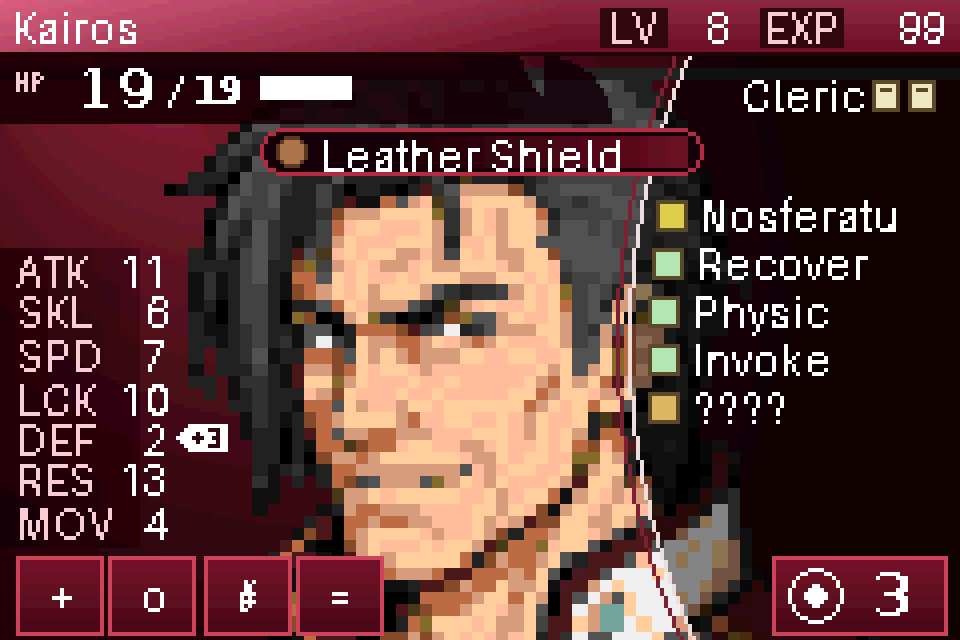
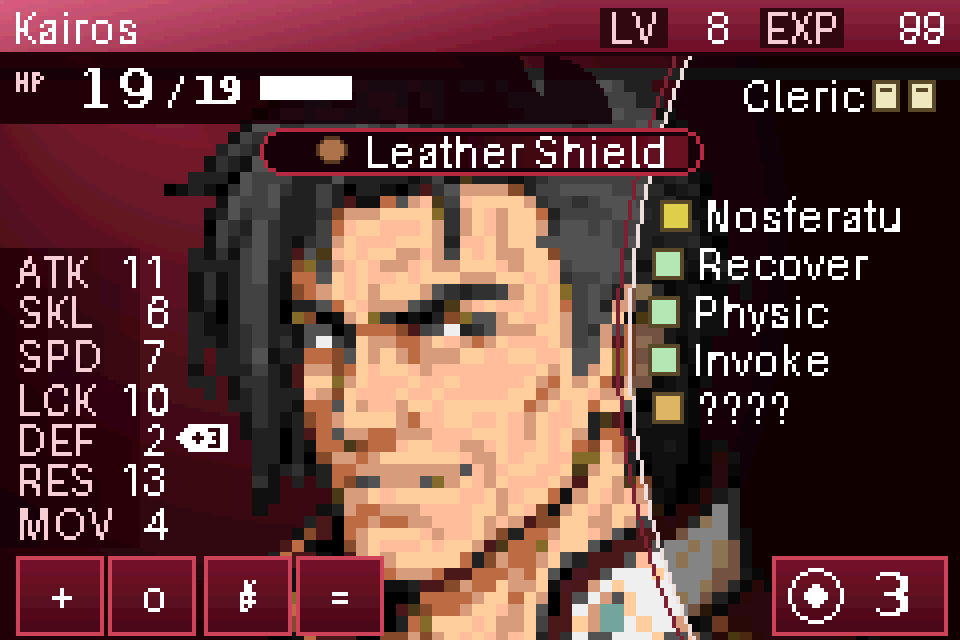
Centrar icono y texto del objeto; hechizos siguen la curva medida de la línea blanca
Claude-Session: https://claude.ai/code/session_01C4QAM7MwvCQVjJLG12SBSt

Changed region(s): [[0.2812, 0.1875, 0.7188, 0.2812], [0.6562, 0.3125, 0.9375, 0.375], [0.6562, 0.5938, 0.8438, 0.6562]]

diff --git a/gba_status/generar.py b/gba_status/generar.py
@@ -51,7 +51,10 @@ m = Image.new("L", (W, H), 0)
 ImageDraw.Draw(m).ellipse([cx - r, cy - r, cx + r, cy + r], fill=115)
 img = Image.composite(Image.new("RGB", (W, H)), img, m)
 d = ImageDraw.Draw(img); d.fontmode = "1"
-d.ellipse([cx - r, cy - r, cx + r, cy + r], outline=c(232, 216, 216))
+ARC = c(232, 216, 216)
+d.ellipse([cx - r, cy - r, cx + r, cy + r], outline=ARC)
+# x real de la linea blanca en cada fila (medida en pixeles, no por formula)
+ARCX = {y: min((x for x in range(100, W) if img.getpixel((x, y)) == ARC), default=None) for y in range(H)}
 d.ellipse([cx - r - 3, cy - r - 3, cx + r + 3, cy + r + 3], outline=c(120, 32, 48))
 
 def t(x, y, s, col=TXT): d.text((x, y), s, font=f, fill=col)
@@ -113,8 +116,11 @@ d.rounded_rectangle([65, 32, 175, 43], 6, fill=c(30, 4, 10), outline=c(176, 40, 
 for x in range(100, 172):  # oscuro a la izquierda, se aclara a tinto hacia la derecha
     d.line([(x, 34), (x, 41)], fill=lerp((30, 4, 10), (110, 18, 36), (x - 100) / 72))
 fs = ImageFont.load_default(size=10)  # letra chica para banner y hechizos
-d.ellipse([69, 34, 76, 41], fill=c(168, 112, 72), outline=c(88, 56, 32))
-d.text((80, 33), "Leather Shield", font=fs, fill=TXT)
+# icono + texto centrados como bloque en el recuadro (65..175, 32..43)
+bb = d.textbbox((0, 0), "Leather Shield", font=fs); tw, th = bb[2] - bb[0], bb[3] - bb[1]
+bx = (65 + 175 - (8 + 4 + tw)) // 2; my = (32 + 43) / 2
+d.ellipse([bx, round(my - 4), bx + 7, round(my + 3)], fill=c(168, 112, 72), outline=c(88, 56, 32))
+d.text((bx + 12 - bb[0], round(my - th / 2) - bb[1]), "Leather Shield", font=fs, fill=TXT)
 
 # stats: etiquetas alineadas a la izquierda, valores a la derecha
 sm = Image.new("L", (W, H), 0); smd = ImageDraw.Draw(sm)
@@ -134,8 +140,7 @@ skills = [("Nosferatu", (216, 200, 72)), ("Recover", (176, 224, 176)),
           ("Physic", (176, 224, 176)), ("Invoke", (176, 224, 176)), ("????", (216, 176, 96))]
 for i, (s_, col) in enumerate(skills):
     y = Y0 + i * PASO; ym = y + 6
-    xa = cx - math.sqrt(r * r - (ym - cy) ** 2)  # x del arco a esa altura
-    x = int(xa) + SEP
+    x = ARCX[ym] + SEP  # sigue la curva real de la linea blanca
     d.rectangle([x, y + 2, x + 7, y + 9], fill=c(*col), outline=c(88, 72, 40))
     d.text((x + 11, y), s_, font=fs, fill=TXT)
 
